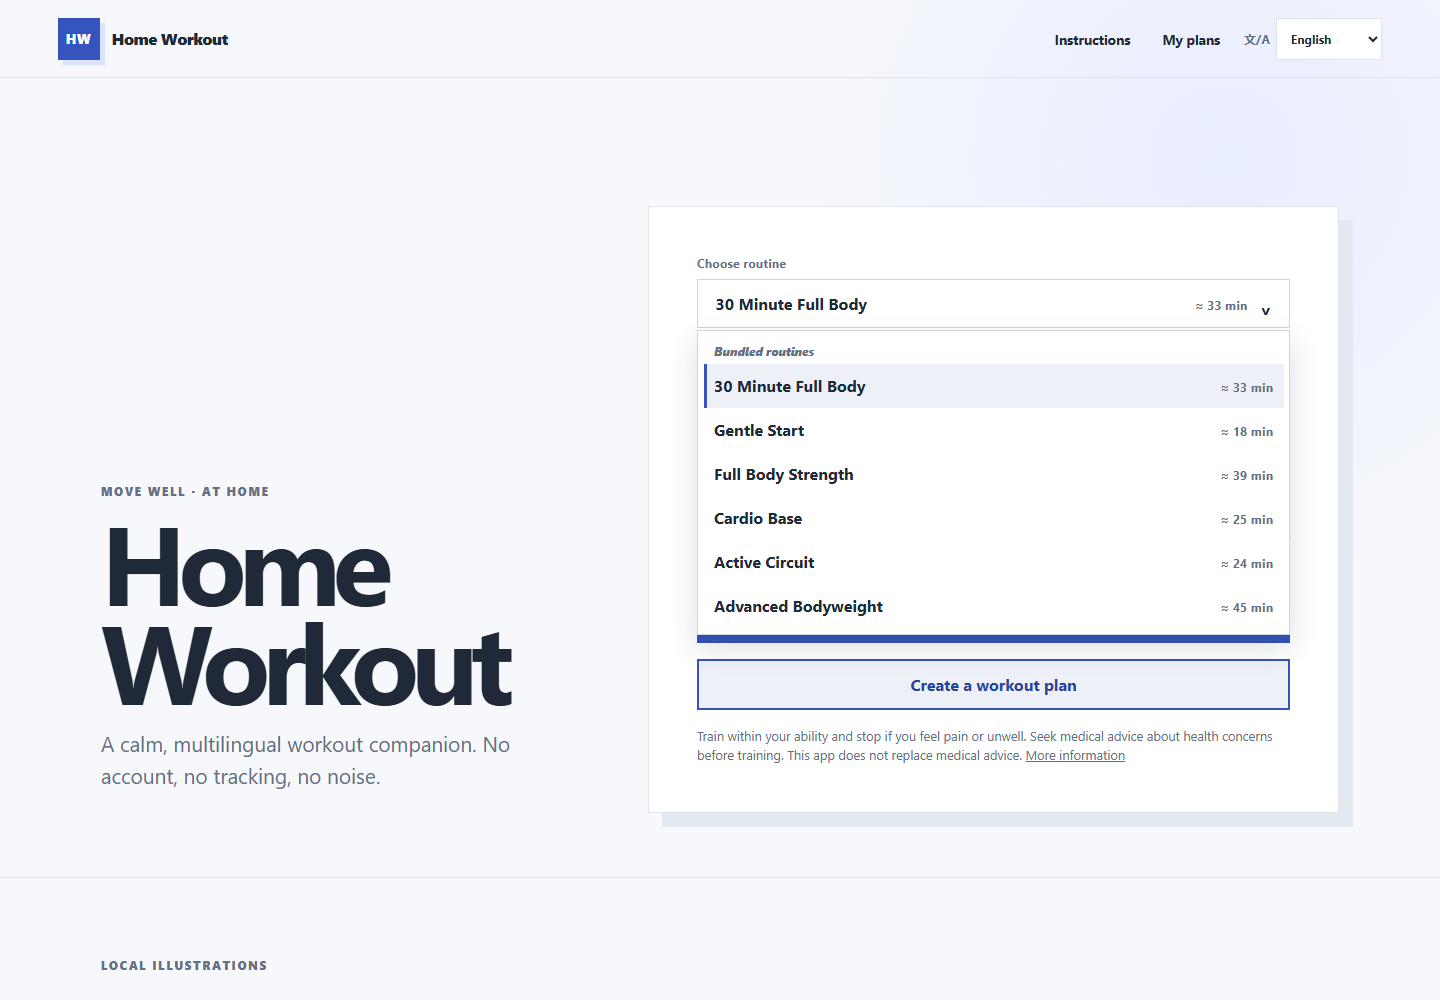
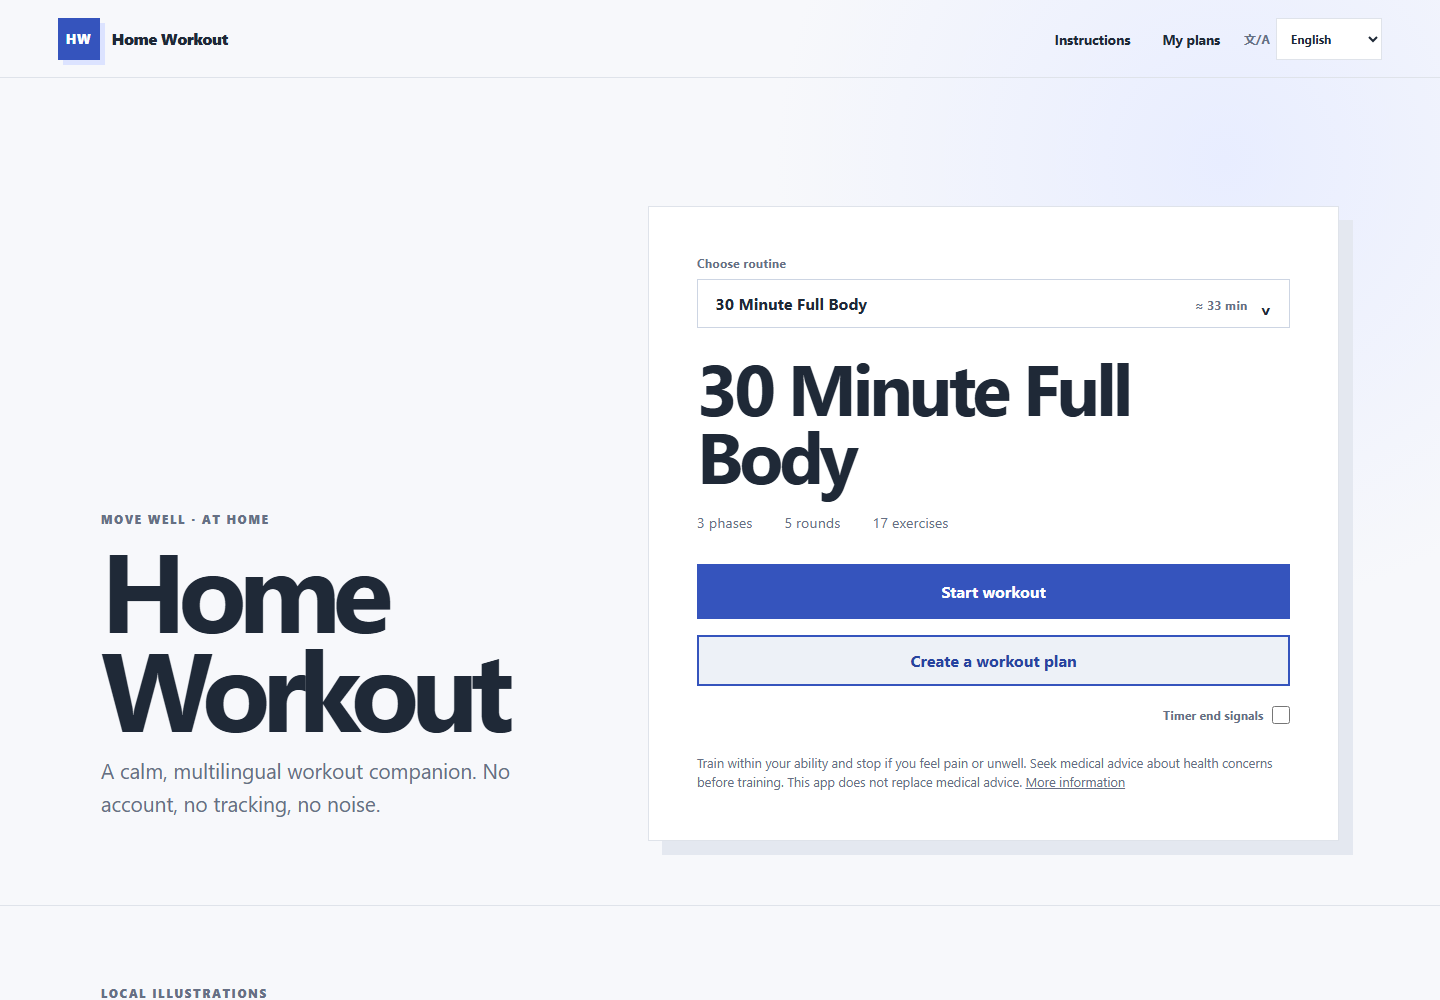
refactor: simplify timer audio controls

diff --git a/src/ui/app.ts b/src/ui/app.ts
@@ -241,7 +241,7 @@ export class HomeWorkoutApp {
       const nextPosition = `${snapshot.phase}:${snapshot.phaseIndex}:${snapshot.roundIndex}:${snapshot.exerciseIndex}:${snapshot.paused}`;
 
       if (previousPosition !== nextPosition) {
-        if (this.audioSettings.enabled) this.timerEndSignal.play(this.audioSettings.volume);
+        if (this.audioSettings.enabled) this.timerEndSignal.play();
         this.renderWorkout();
         return;
       }
@@ -301,19 +301,16 @@ export class HomeWorkoutApp {
             </div>
           </div>
           <h2>${escapeHtml(title)}</h2>
-          <div class="plan-meta">
-            <div class="plan-stats" aria-label="${escapeHtml(this.t('home.summary'))}">
-              <span>${escapeHtml(this.t('home.phases', { count: this.activePlan.phases.length }))}</span>
-              <span>${escapeHtml(this.t('home.rounds', { count: totalRounds(this.activePlan) }))}</span>
-              <span>${escapeHtml(this.t('home.exercises', { count: activeExercises.length }))}</span>
-            </div>
-            <div class="audio-settings">
-              <label class="check audio-toggle"><input type="checkbox" data-timer-audio ${this.audioSettings.enabled ? 'checked' : ''} ${audioSupported ? '' : 'disabled'}><span>${escapeHtml(this.t('audio.timerCues'))}</span></label>
-              <details class="audio-volume-settings" data-audio-volume-settings ${this.audioSettings.enabled && audioSupported ? '' : 'hidden'}><summary>${escapeHtml(this.t('audio.volume'))}</summary><label><span class="sr-only">${escapeHtml(this.t('audio.volume'))}</span><input type="range" aria-label="${escapeHtml(this.t('audio.volume'))}" min="0" max="100" step="5" value="${Math.round(this.audioSettings.volume * 100)}" data-timer-audio-volume></label></details>
-            </div>
+          <div class="plan-stats" aria-label="${escapeHtml(this.t('home.summary'))}">
+            <span>${escapeHtml(this.t('home.phases', { count: this.activePlan.phases.length }))}</span>
+            <span>${escapeHtml(this.t('home.rounds', { count: totalRounds(this.activePlan) }))}</span>
+            <span>${escapeHtml(this.t('home.exercises', { count: activeExercises.length }))}</span>
           </div>
           <button class="primary start-button" data-action="start">${escapeHtml(this.t('button.startWorkout'))}</button>
           <a class="button-link create-plan-button" href="#editor" data-create-plan>${escapeHtml(this.t('home.createPlan'))}</a>
+          <div class="audio-settings">
+            <label class="audio-toggle"><span>${escapeHtml(this.t('audio.timerCues'))}</span><input type="checkbox" data-timer-audio ${this.audioSettings.enabled ? 'checked' : ''} ${audioSupported ? '' : 'disabled'}></label>
+          </div>
           <p class="home-safety">${escapeHtml(this.t('home.safety'))} <a href="#impressum">${escapeHtml(this.t('home.moreSafety'))}</a></p>
         </article>
       </section>
@@ -391,20 +388,10 @@ export class HomeWorkoutApp {
       if (!(event.currentTarget as HTMLElement).contains((event as FocusEvent).relatedTarget as Node | null)) closeListbox();
     });
     const audioToggle = this.root.querySelector<HTMLInputElement>('[data-timer-audio]');
-    const volume = this.root.querySelector<HTMLInputElement>('[data-timer-audio-volume]');
-    const volumeSettings = this.root.querySelector<HTMLDetailsElement>('[data-audio-volume-settings]');
     audioToggle?.addEventListener('change', () => {
-      this.audioSettings = { ...this.audioSettings, enabled: audioToggle.checked };
+      this.audioSettings = { enabled: audioToggle.checked };
       saveTimerAudioSettings(localStorage, this.audioSettings);
-      if (volumeSettings) {
-        volumeSettings.hidden = !audioToggle.checked;
-        if (!audioToggle.checked) volumeSettings.open = false;
-      }
       this.unlockTimerAudio();
-    });
-    volume?.addEventListener('input', () => {
-      this.audioSettings = { ...this.audioSettings, volume: Number(volume.value) / 100 };
-      saveTimerAudioSettings(localStorage, this.audioSettings);
     });
   }
 
@@ -556,7 +543,7 @@ export class HomeWorkoutApp {
     act('previous', { type: 'PREVIOUS' }); act('next', { type: 'NEXT' });
     act('pause', { type: snapshot.paused ? 'RESUME' : 'PAUSE' });
     this.root.querySelector('[data-action="timer-audio"]')?.addEventListener('click', () => {
-      this.audioSettings = { ...this.audioSettings, enabled: !this.audioSettings.enabled };
+      this.audioSettings = { enabled: !this.audioSettings.enabled };
       saveTimerAudioSettings(localStorage, this.audioSettings);
       this.unlockTimerAudio();
       this.renderWorkout();

diff --git a/tests/unit/audio.test.ts b/tests/unit/audio.test.ts
@@ -13,8 +13,8 @@ const storage = (value: string | null = null) => ({
 });
 
 describe('timer audio settings', () => {
-  it('is opt-in and uses a moderate default volume', () => {
-    expect(loadTimerAudioSettings(storage())).toStrictEqual({ enabled: false, volume: 0.5 });
+  it('is opt-in', () => {
+    expect(loadTimerAudioSettings(storage())).toStrictEqual({ enabled: false });
     expect(DEFAULT_TIMER_AUDIO_SETTINGS.enabled).toBe(false);
   });
 
@@ -22,20 +22,16 @@ describe('timer audio settings', () => {
     'not-json',
     'null',
     '{}',
-    '{"enabled":"yes","volume":0.5}',
-    '{"enabled":true,"volume":-0.1}',
-    '{"enabled":true,"volume":1.1}'
+    '{"enabled":"yes"}'
   ])('falls back safely for invalid stored settings: %s', (value) => {
-    expect(loadTimerAudioSettings(storage(value))).toStrictEqual({ enabled: false, volume: 0.5 });
+    expect(loadTimerAudioSettings(storage(value))).toStrictEqual({ enabled: false });
   });
 
-  it('loads valid settings and persists a bounded volume', () => {
-    expect(loadTimerAudioSettings(storage('{"enabled":true,"volume":0.25}'))).toStrictEqual({ enabled: true, volume: 0.25 });
+  it('loads legacy volume settings and persists only the current enabled state', () => {
+    expect(loadTimerAudioSettings(storage('{"enabled":true,"volume":0.25}'))).toStrictEqual({ enabled: true });
     const target = storage();
-    saveTimerAudioSettings(target, { enabled: true, volume: 5 });
-    expect(target.setItem).toHaveBeenCalledWith(TIMER_AUDIO_SETTINGS_KEY, '{"enabled":true,"volume":1}');
-    saveTimerAudioSettings(target, { enabled: false, volume: Number.NaN });
-    expect(target.setItem).toHaveBeenLastCalledWith(TIMER_AUDIO_SETTINGS_KEY, '{"enabled":false,"volume":0.5}');
+    saveTimerAudioSettings(target, { enabled: true });
+    expect(target.setItem).toHaveBeenCalledWith(TIMER_AUDIO_SETTINGS_KEY, '{"enabled":true}');
   });
 });
 
@@ -79,13 +75,13 @@ describe('timer end signal', () => {
     const factory = vi.fn(() => fake.context);
     const signal = new TimerEndSignal(factory, true);
 
-    expect(signal.play(0.5)).toBe(false);
+    expect(signal.play()).toBe(false);
     expect(factory).not.toHaveBeenCalled();
     await expect(signal.unlock()).resolves.toBe(true);
     await expect(signal.unlock()).resolves.toBe(true);
     expect(factory).toHaveBeenCalledTimes(1);
     expect(fake.resume).toHaveBeenCalledTimes(1);
-    expect(signal.play(0.5)).toBe(true);
+    expect(signal.play()).toBe(true);
     expect(fake.events).toStrictEqual([
       'frequency-start', 'frequency-end', 'gain-start', 'gain-ramp', 'gain-ramp',
       'oscillator-connect', 'gain-connect', 'start', 'stop'
@@ -93,7 +89,7 @@ describe('timer end signal', () => {
     expect(fake.oscillator.stop).toHaveBeenCalledWith(4.32);
   });
 
-  it('fails silently when unsupported, unavailable, suspended, muted, or passed an invalid volume', async () => {
+  it('fails silently when unsupported, unavailable, or suspended', async () => {
     const factory = vi.fn(() => { throw new Error('blocked'); });
     await expect(new TimerEndSignal(factory, false).unlock()).resolves.toBe(false);
     expect(factory).not.toHaveBeenCalled();
@@ -102,7 +98,6 @@ describe('timer end signal', () => {
     const fake = audioContext('running');
     const signal = new TimerEndSignal(() => fake.context, true);
     await signal.unlock();
-    expect(signal.play(0)).toBe(false);
-    expect(signal.play(Number.NaN)).toBe(false);
+    expect(signal.play()).toBe(true);
   });
 });

diff --git a/src/core/audio.ts b/src/core/audio.ts
@@ -1,10 +1,9 @@
 export interface TimerAudioSettings {
   enabled: boolean;
-  volume: number;
 }
 
 export const TIMER_AUDIO_SETTINGS_KEY = 'home-workout:timer-audio';
-export const DEFAULT_TIMER_AUDIO_SETTINGS: Readonly<TimerAudioSettings> = { enabled: false, volume: 0.5 };
+export const DEFAULT_TIMER_AUDIO_SETTINGS: Readonly<TimerAudioSettings> = { enabled: false };
 
 export function loadTimerAudioSettings(storage: Pick<Storage, 'getItem'>): TimerAudioSettings {
   try {
@@ -13,19 +12,15 @@ export function loadTimerAudioSettings(storage: Pick<Storage, 'getItem'>): Timer
     const parsed: unknown = JSON.parse(raw);
     if (!parsed || typeof parsed !== 'object') return { ...DEFAULT_TIMER_AUDIO_SETTINGS };
     const candidate = parsed as Record<string, unknown>;
-    if (typeof candidate.enabled !== 'boolean' || typeof candidate.volume !== 'number'
-      || !Number.isFinite(candidate.volume) || candidate.volume < 0 || candidate.volume > 1) {
-      return { ...DEFAULT_TIMER_AUDIO_SETTINGS };
-    }
-    return { enabled: candidate.enabled, volume: candidate.volume };
+    if (typeof candidate.enabled !== 'boolean') return { ...DEFAULT_TIMER_AUDIO_SETTINGS };
+    return { enabled: candidate.enabled };
   } catch {
     return { ...DEFAULT_TIMER_AUDIO_SETTINGS };
   }
 }
 
 export function saveTimerAudioSettings(storage: Pick<Storage, 'setItem'>, settings: TimerAudioSettings): void {
-  const volume = Number.isFinite(settings.volume) ? Math.min(1, Math.max(0, settings.volume)) : DEFAULT_TIMER_AUDIO_SETTINGS.volume;
-  storage.setItem(TIMER_AUDIO_SETTINGS_KEY, JSON.stringify({ enabled: settings.enabled, volume }));
+  storage.setItem(TIMER_AUDIO_SETTINGS_KEY, JSON.stringify({ enabled: settings.enabled }));
 }
 
 type AudioContextFactory = () => AudioContext;
@@ -49,10 +44,9 @@ export class TimerEndSignal {
     }
   }
 
-  play(volume: number): boolean {
-    if (this.context?.state !== 'running' || !Number.isFinite(volume) || volume <= 0) return false;
+  play(): boolean {
+    if (this.context?.state !== 'running') return false;
     try {
-      const normalizedVolume = Math.min(1, volume);
       const start = this.context.currentTime;
       const stop = start + 0.32;
       const oscillator = this.context.createOscillator();
@@ -62,7 +56,7 @@ export class TimerEndSignal {
       oscillator.frequency.setValueAtTime(880, start);
       oscillator.frequency.exponentialRampToValueAtTime(660, stop);
       gain.gain.setValueAtTime(0.0001, start);
-      gain.gain.exponentialRampToValueAtTime(Math.max(0.0001, normalizedVolume * 0.16), start + 0.015);
+      gain.gain.exponentialRampToValueAtTime(0.08, start + 0.015);
       gain.gain.exponentialRampToValueAtTime(0.0001, stop);
       oscillator.connect(gain);
       gain.connect(this.context.destination);

diff --git a/tests/e2e/home-and-workout.spec.ts b/tests/e2e/home-and-workout.spec.ts
@@ -66,7 +66,7 @@ test('plan selection keeps its estimate, label, focus, and responsive alignment'
   await expect(updatedPicker).toContainText(/\d+\s*(min|Min\.)/);
 });
 
-test('timer audio remains opt-in, local, adjustable, and mutable during a workout', async ({ page }) => {
+test('timer audio remains opt-in, local, and mutable during a workout', async ({ page }) => {
   await page.goto('/');
 
   const toggle = page.getByRole('checkbox', { name: /timer end signals|Timer-Endsignale/i });
@@ -80,13 +80,17 @@ test('timer audio remains opt-in, local, adjustable, and mutable during a workou
   await expect(toggle).toBeEnabled();
 
   await toggle.check();
-  const volumeDetails = page.locator('[data-audio-volume-settings]');
-  await expect(volumeDetails).toBeVisible();
-  await volumeDetails.locator('summary').click();
-  const volume = page.getByRole('slider', { name: /volume|Lautstärke/i });
-  await expect(volume).toBeEnabled();
-  await volume.fill('25');
-  expect(await page.evaluate(() => localStorage.getItem('home-workout:timer-audio'))).toBe('{"enabled":true,"volume":0.25}');
+  await expect(page.getByRole('slider')).toHaveCount(0);
+  expect(await page.evaluate(() => localStorage.getItem('home-workout:timer-audio'))).toBe('{"enabled":true}');
+  const audioSettings = page.locator('.audio-settings');
+  const audioLabel = audioSettings.locator('.audio-toggle');
+  const createPlan = page.locator('.create-plan-button');
+  const [audioBox, labelBox, createBox] = await Promise.all([audioSettings.boundingBox(), audioLabel.boundingBox(), createPlan.boundingBox()]);
+  expect(audioBox).not.toBeNull();
+  expect(labelBox).not.toBeNull();
+  expect(createBox).not.toBeNull();
+  expect(audioBox!.y).toBeGreaterThanOrEqual(createBox!.y + createBox!.height);
+  expect(Math.abs(labelBox!.x + labelBox!.width - (createBox!.x + createBox!.width))).toBeLessThanOrEqual(1);
 
   await page.getByRole('button', { name: /start workout/i }).click();
   const workoutToggle = page.getByRole('button', { name: /timer end signals|Timer-Endsignale/i });
@@ -98,7 +102,7 @@ test('timer audio remains opt-in, local, adjustable, and mutable during a workou
   await expect(workoutToggle).toHaveAttribute('aria-pressed', 'true');
   await workoutToggle.click();
   await expect(page.getByRole('button', { name: /timer end signals|Timer-Endsignale/i })).toHaveAttribute('aria-pressed', 'false');
-  expect(await page.evaluate(() => localStorage.getItem('home-workout:timer-audio'))).toBe('{"enabled":false,"volume":0.25}');
+  expect(await page.evaluate(() => localStorage.getItem('home-workout:timer-audio'))).toBe('{"enabled":false}');
 
   await page.reload();
   await page.getByRole('button', { name: /resume|fortsetzen/i }).click();

diff --git a/src/i18n/messages/common.ts b/src/i18n/messages/common.ts
@@ -12,9 +12,7 @@ export const commonMessages = {
   'nav.savedRoutines': row('Gespeicherte Trainingspläne', 'Saved routines', 'Opgeslagen schema’s', 'Rutinas guardadas', 'Programmes enregistrés', 'Сохранённые комплексы', '已保存的训练计划', '저장된 루틴', '保存済みルーティン', 'الخطط المحفوظة'),
   'nav.legal': row('Impressum', 'Legal notice', 'Colofon', 'Aviso legal', 'Mentions légales', 'Правовая информация', '法律声明', '법적 고지', '法的情報', 'إشعار قانوني'),
   'footer.privacy': row('Datenschutzfreundlich · Offline nutzbar', 'Private by design · Offline ready', 'Privacyvriendelijk · Offline gereed', 'Privacidad integrada · Lista sin conexión', 'Confidentielle par conception · Utilisable hors ligne', 'Конфиденциальность по умолчанию · Работает офлайн', '隐私优先 · 支持离线', '개인정보 보호 설계 · 오프라인 사용 가능', 'プライバシー重視 · オフライン対応', 'خصوصية مدمجة · جاهز دون اتصال'),
-  'audio.settings': row('Audio-Einstellungen', 'Audio settings', 'Audio-instellingen', 'Ajustes de audio', 'Paramètres audio', 'Настройки звука', '音频设置', '오디오 설정', '音声設定', 'إعدادات الصوت'),
   'audio.timerCues': row('Timer-Endsignale', 'Timer end signals', 'Timer-eindsignalen', 'Señales de fin del temporizador', 'Signaux de fin du minuteur', 'Сигналы окончания таймера', '计时结束提示音', '타이머 종료음', 'タイマー終了音', 'إشارات انتهاء المؤقت'),
-  'audio.volume': row('Lautstärke', 'Volume', 'Volume', 'Volumen', 'Volume', 'Громкость', '音量', '음량', '音量', 'مستوى الصوت'),
   'button.start': row('Start', 'Start', 'Start', 'Iniciar', 'Commencer', 'Начать', '开始', '시작', '開始', 'ابدأ'),
   'button.startWorkout': row('Training starten', 'Start workout', 'Training starten', 'Iniciar entrenamiento', 'Commencer l’entraînement', 'Начать тренировку', '开始锻炼', '운동 시작', 'ワークアウトを開始', 'بدء التمرين'),
   'button.backHome': row('Zur Startseite', 'Back home', 'Naar start', 'Volver al inicio', 'Retour à l’accueil', 'На главную', '返回首页', '홈으로', 'ホームへ戻る', 'العودة إلى الرئيسية'),

diff --git a/src/styles.css b/src/styles.css
@@ -61,16 +61,12 @@ h1 { font-size: clamp(3rem, 8vw, 7rem); line-height: .88; letter-spacing: -.075e
 [data-routine-option][data-active], [data-routine-option]:hover { background: var(--soft); }
 [data-routine-option][aria-selected="true"] { box-shadow: inset 3px 0 0 var(--accent); }
 .workout-card h2 { font-size: clamp(2.2rem, 5vw, 4.8rem); line-height: .95; letter-spacing: -.055em; max-width: 12ch; margin: 1.5rem 0; }
-.plan-meta { display: flex; flex-wrap: wrap; align-items: start; gap: .35rem 1rem; }
-.plan-stats { display: flex; flex: 1 1 15rem; flex-wrap: wrap; gap: 1.2rem 2rem; color: var(--muted); font-size: .9rem; }
+.plan-stats { display: flex; flex-wrap: wrap; gap: 1.2rem 2rem; color: var(--muted); font-size: .9rem; }
 .plan-stats strong { color: var(--accent); font-size: 1.4rem; margin-right: .3rem; }
-.audio-settings { flex: 0 0 auto; margin-inline-start: auto; color: var(--muted); font-size: .78rem; }
-.audio-toggle { display: inline-flex; min-height: 44px; align-items: center; gap: .5rem; }
-.audio-volume-settings { margin-inline-start: 1.45rem; width: min(15rem, calc(100% - 1.45rem)); }
-.audio-volume-settings summary { min-height: 36px; display: flex; align-items: center; cursor: pointer; font-weight: 700; }
-.audio-volume-settings summary::before { content: '›'; margin-inline-end: .35rem; }
-.audio-volume-settings[open] summary::before { transform: rotate(90deg); }
-.audio-volume-settings input { width: 100%; min-height: 36px; padding: 0; }
+.audio-settings { display: flex; justify-content: flex-end; margin-top: .45rem; }
+.audio-toggle { display: inline-flex; min-height: 44px; align-items: center; gap: .55rem; color: var(--muted); font-size: .76rem; font-weight: 700; cursor: pointer; }
+.audio-toggle input { width: 18px; height: 18px; min-height: auto; margin: 0; accent-color: var(--accent); }
+.audio-toggle:has(input:disabled) { opacity: .55; cursor: not-allowed; }
 .primary { background: var(--accent); color: #fff; border-color: var(--accent); }
 .primary:hover { background: var(--accent-strong); }
 .start-button { margin-top: 2rem; width: 100%; display: flex; justify-content: center; align-items: center; padding: 1rem 1.2rem; }

diff --git a/tests/e2e/screen-reader.spec.ts b/tests/e2e/screen-reader.spec.ts
@@ -11,7 +11,6 @@ test.describe('screen-reader smoke tests', () => {
     const tree = await card.ariaSnapshot();
     expect(tree).toContain('combobox "Choose routine"');
     expect(tree).toContain('checkbox "Timer end signals"');
-    expect(tree).not.toContain('slider "Volume"');
 
     const picker = page.getByRole('combobox', { name: 'Choose routine' });
     await expect(picker).toContainText(/30 Minute Full Body.*\d+ min/i);
@@ -23,13 +22,11 @@ test.describe('screen-reader smoke tests', () => {
     await expect(listbox).toBeHidden();
     const toggle = page.getByRole('checkbox', { name: 'Timer end signals' });
     await expect(toggle).not.toBeChecked();
-    await expect(page.getByRole('slider', { name: 'Volume' })).toHaveCount(0);
+    await expect(page.getByRole('slider')).toHaveCount(0);
 
     await toggle.check();
     await expect(toggle).toBeChecked();
-    await page.locator('[data-audio-volume-settings] summary').click();
-    const volume = page.getByRole('slider', { name: 'Volume' });
-    await expect(volume).toBeEnabled();
+    await expect(page.getByRole('slider')).toHaveCount(0);
   });
 
   test('workout state is announced and keyboard focus survives rerenders', async ({ page }) => {

diff --git a/tests/unit/i18n-messages.test.ts b/tests/unit/i18n-messages.test.ts
@@ -20,8 +20,8 @@ const meaningSensitiveKeys: MessageKey[] = [
 // written identically in English and the named locale. All other equality is
 // treated as a likely fallback leak and fails this test.
 const unchangedCopyAllowlist: Readonly<Record<keyof typeof addedMessagesByLocale, readonly MessageKey[]>> = {
-  pt: ['app.name', 'status.total', 'category.cardio', 'category.core', 'home.minutes', 'audio.volume'],
-  it: ['app.name', 'category.cardio', 'category.core', 'category.stretch', 'home.minutes', 'help.importTitle', 'help.offlineTitle', 'audio.volume'],
+  pt: ['app.name', 'status.total', 'category.cardio', 'category.core', 'home.minutes'],
+  it: ['app.name', 'category.cardio', 'category.core', 'category.stretch', 'home.minutes', 'help.importTitle', 'help.offlineTitle'],
   pl: ['app.name', 'button.start', 'category.cardio', 'category.core', 'home.minutes'],
   tr: ['app.name', 'category.cardio', 'category.core', 'editor.minimum', 'help.pauseTitle'],
   uk: ['app.name', 'category.cardio', 'category.core'],

diff --git a/src/i18n/messages-added/hi.ts b/src/i18n/messages-added/hi.ts
@@ -11,9 +11,7 @@ export const hiMessages: Record<CoreMessageKey, string> = {
   "nav.savedRoutines": "बचाए गए दिनचर्याएं",
   "nav.legal": "कानूनी नोट",
   "footer.privacy": "डिजाइन द्वारा निजी · ऑफ़लाइन तैयार",
-  "audio.settings": "ऑडियो सेटिंग",
   "audio.timerCues": "टाइमर समाप्ति संकेत",
-  "audio.volume": "आवाज़",
   "button.start": "प्रारंभ",
   "button.startWorkout": "वर्कआउट शुरू करें",
   "button.backHome": "वापस घर",

diff --git a/src/i18n/messages-added/uk.ts b/src/i18n/messages-added/uk.ts
@@ -11,9 +11,7 @@ export const ukMessages: Record<CoreMessageKey, string> = {
   "nav.savedRoutines": "Збережені процедури",
   "nav.legal": "Юридичне повідомлення",
   "footer.privacy": "Приватне за дизайном · Оффлайн готовий",
-  "audio.settings": "Налаштування звуку",
   "audio.timerCues": "Сигнали завершення таймера",
-  "audio.volume": "Гучність",
   "button.start": "Почати",
   "button.startWorkout": "Почати тренування",
   "button.backHome": "Повернутися додому",

diff --git a/src/i18n/messages-added/pl.ts b/src/i18n/messages-added/pl.ts
@@ -11,9 +11,7 @@ export const plMessages: Record<CoreMessageKey, string> = {
   "nav.savedRoutines": "Zapisane rutyny",
   "nav.legal": "Powiadomienie prawne",
   "footer.privacy": "Prywatne według projektu · Offline gotowy",
-  "audio.settings": "Ustawienia dźwięku",
   "audio.timerCues": "Sygnały końca minutnika",
-  "audio.volume": "Głośność",
   "button.start": "Start",
   "button.startWorkout": "Rozpocznij trening",
   "button.backHome": "Powrót do domu",

diff --git a/src/i18n/messages-added/tr.ts b/src/i18n/messages-added/tr.ts
@@ -11,9 +11,7 @@ export const trMessages: Record<CoreMessageKey, string> = {
   "nav.savedRoutines": "Kurtarılan rutinler",
   "nav.legal": "Yasal bildirim",
   "footer.privacy": "Tasarımla özel · Çevrimdışı hazır",
-  "audio.settings": "Ses ayarları",
   "audio.timerCues": "Zamanlayıcı bitiş sesleri",
-  "audio.volume": "Ses düzeyi",
   "button.start": "Başlangıç",
   "button.startWorkout": "Antrenman Başlatma",
   "button.backHome": "Eve Dönüş",
